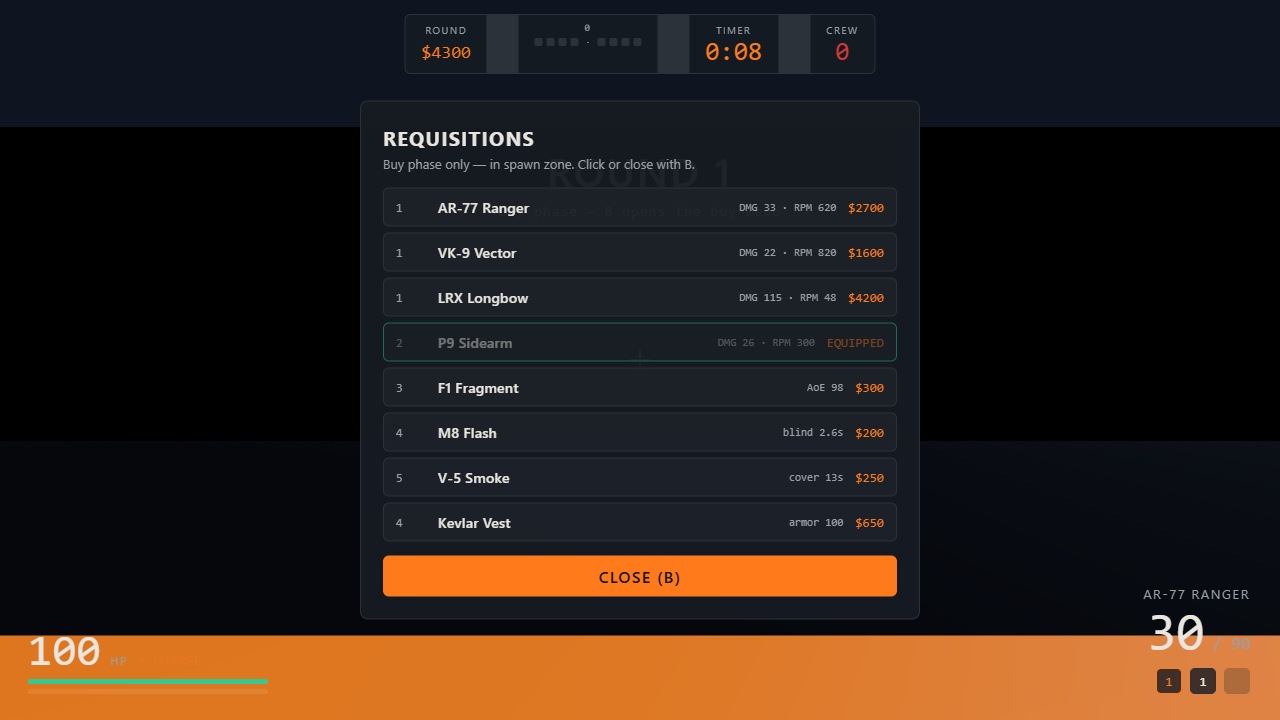
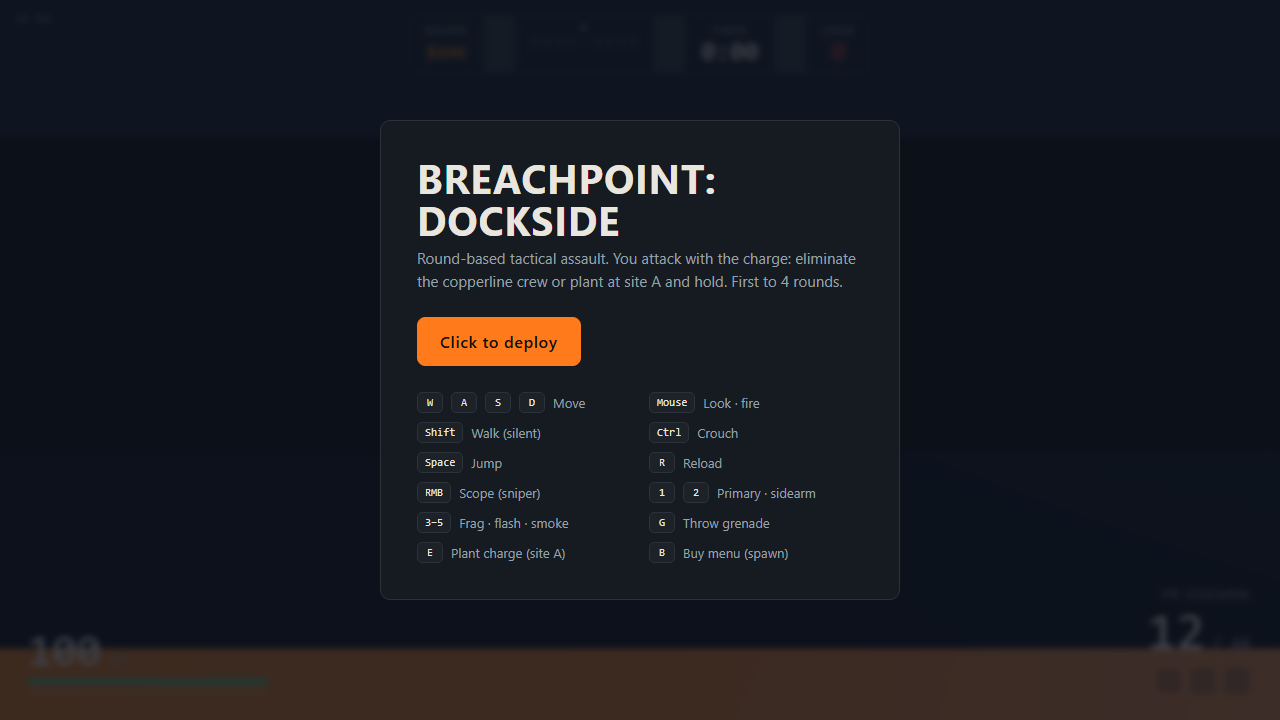
fresh screenshots from the live build; shell lifecycle fix

diff --git a/game/src/viewmodel.js b/game/src/viewmodel.js
@@ -86,6 +86,7 @@ export function createViewModel(camera) {
 // Per-frame viewmodel motion: idle sway, move bob, fire kick, reload dip.
 export function animateViewModel(vm, weaponState, playerState, dt, lookDx, lookDy) {
   const { root, models, flashLight, shell } = vm;
+  let shellLife = vm.getShellLife();
   for (const model of models.values()) model.visible = false;
   const model = models.get(weaponState.weapon.id);
   if (model) model.visible = true;
@@ -114,6 +115,7 @@ export function animateViewModel(vm, weaponState, playerState, dt, lookDx, lookD
   // Shell ejects on each shot, tumbles and fades.
   if (shellLife > 0) {
     shellLife -= dt;
+    vm.setShellLife(shellLife);
     shell.visible = true;
     shellLife > 0.12 ? shell.position.set(shell.position.x + dt * 1.6, shell.position.y + dt * 0.9 - 0.03, shell.position.z + dt * 0.4)
       : shell.visible = false;
